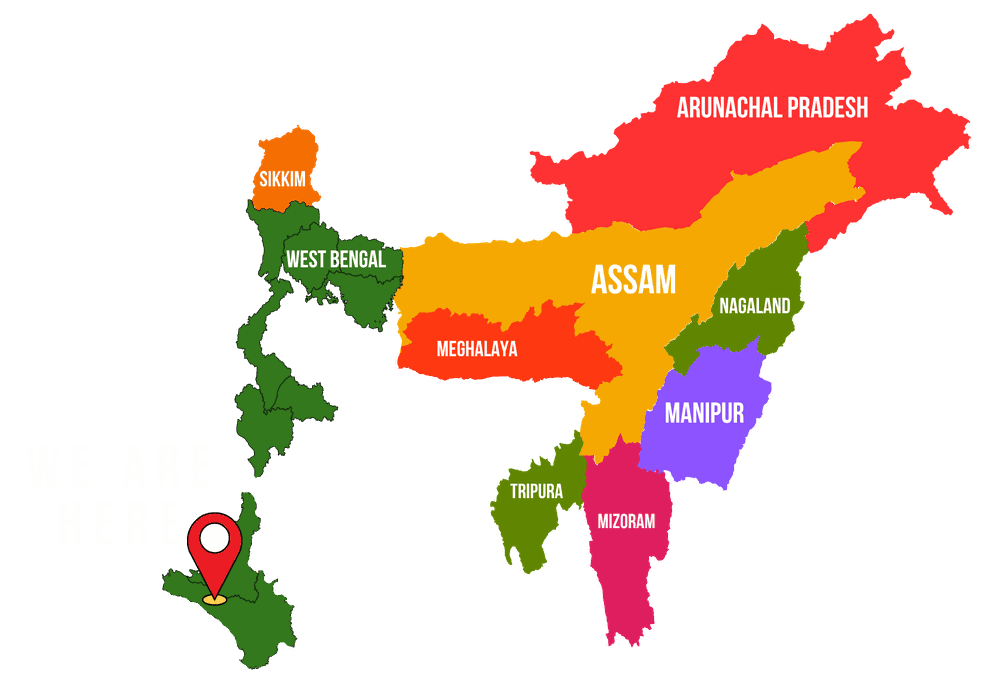
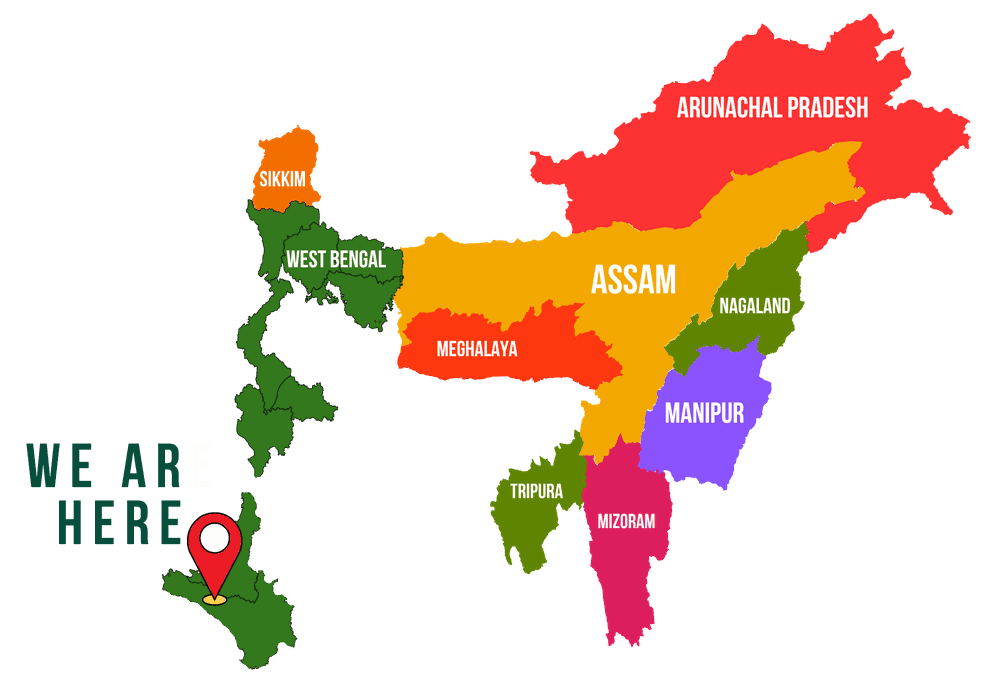
Updated Map Section

Changed region(s): [[0.0, 0.6354, 0.186, 0.7867]]

diff --git a/style.css b/style.css
@@ -957,6 +957,14 @@ a, button, input, select, textarea,
         drop-shadow(0 6px 12px rgba(0, 0, 0, 0.2));
 }
 
+.district-map .map-img-dark {
+    display: none;
+}
+
+.district-map .map-img-light {
+    display: block;
+}
+
 .map-label {
     position: absolute;
     top: 14px;
@@ -8482,6 +8490,23 @@ html.theme-transitioning *::after {
 [data-theme="dark"] .district-map img {
     filter: drop-shadow(0 0 1px rgba(52, 211, 153, 0.6))
             drop-shadow(0 14px 22px rgba(0, 0, 0, 0.5)) !important;
+}
+
+[data-theme="dark"] .district-map .map-img-light {
+    display: none !important;
+}
+
+[data-theme="dark"] .district-map .map-img-dark {
+    display: block !important;
+}
+
+@media (prefers-color-scheme: dark) {
+    :root:not([data-theme="light"]) .district-map .map-img-light {
+        display: none !important;
+    }
+    :root:not([data-theme="light"]) .district-map .map-img-dark {
+        display: block !important;
+    }
 }
 
 [data-theme="dark"] .map-label {

diff --git a/index.html b/index.html
@@ -438,7 +438,16 @@
          loading="lazy"
          height="694"
          width="1000"
-         alt="Rotary International District 3240 map">
+         alt="Rotary International District 3240 map"
+         class="map-img-light">
+
+    <img src="district-3240-map-dark.png"
+         decoding="async"
+         loading="lazy"
+         height="694"
+         width="1000"
+         alt="Rotary International District 3240 map"
+         class="map-img-dark">
 
 </div>
 
